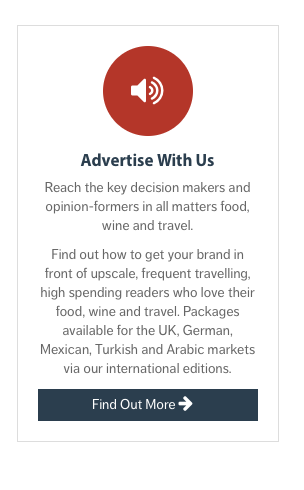
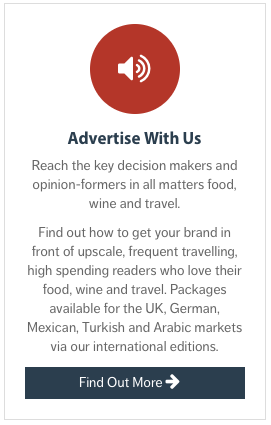
fix
fix

diff --git a/public/blog/article_1/part1.html b/public/blog/article_1/part1.html
@@ -230,15 +230,13 @@
 
 <div class="row" style="text-align:center;float:left!important;">
   
-   <div class="col-sm-3" style="text-align:center;"> </div>
-   
  <div class="col-sm-6" > 
 
 <img src="/images/Screen Shot 2016-11-17 at 14.20.45.png" />
 
 </div> 
 
- <div class="col-sm-3" style="text-align:center;"> </div>
+ <div class="col-sm-6" style="text-align:center;"> </div>
 
 </div>
 
